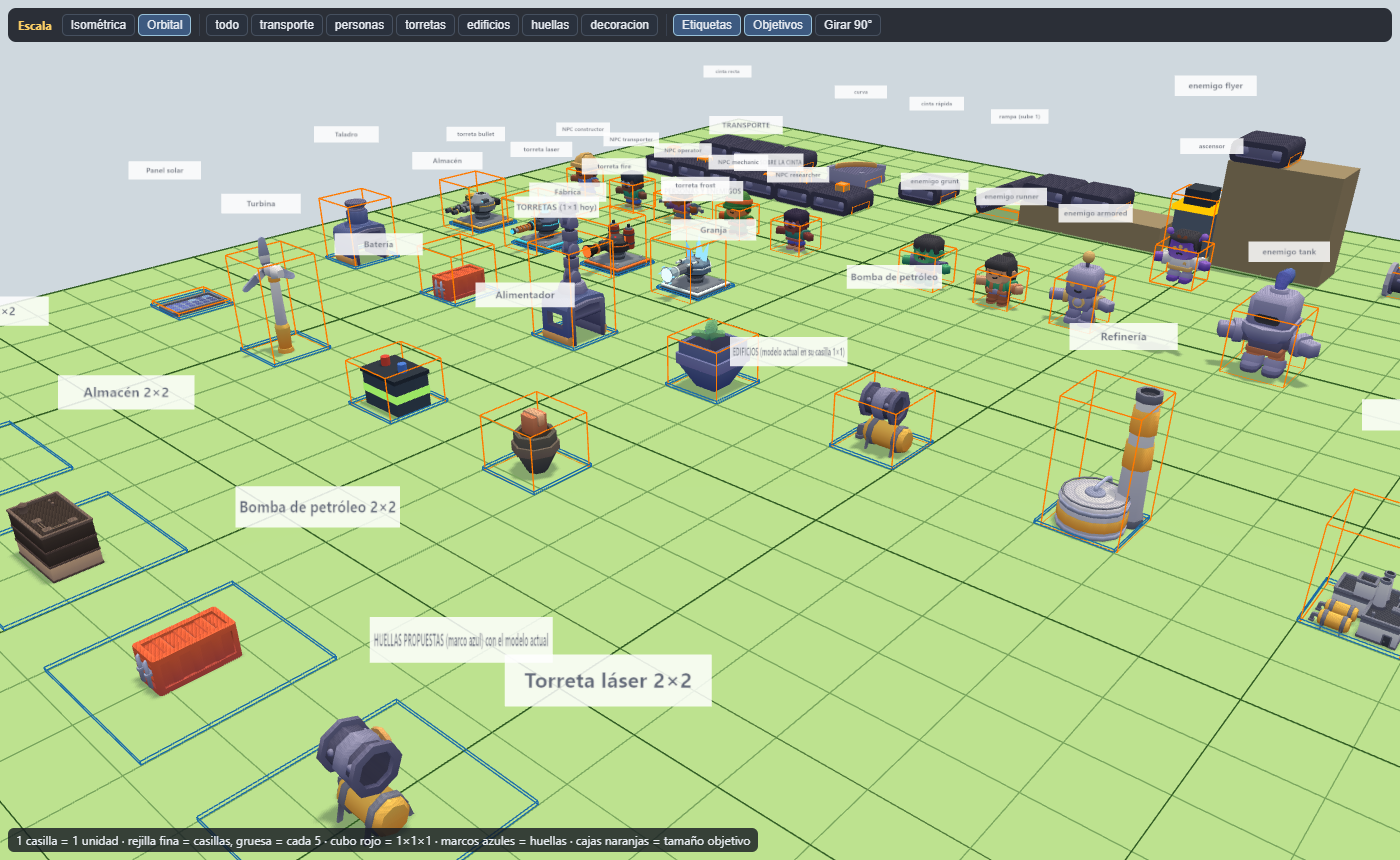
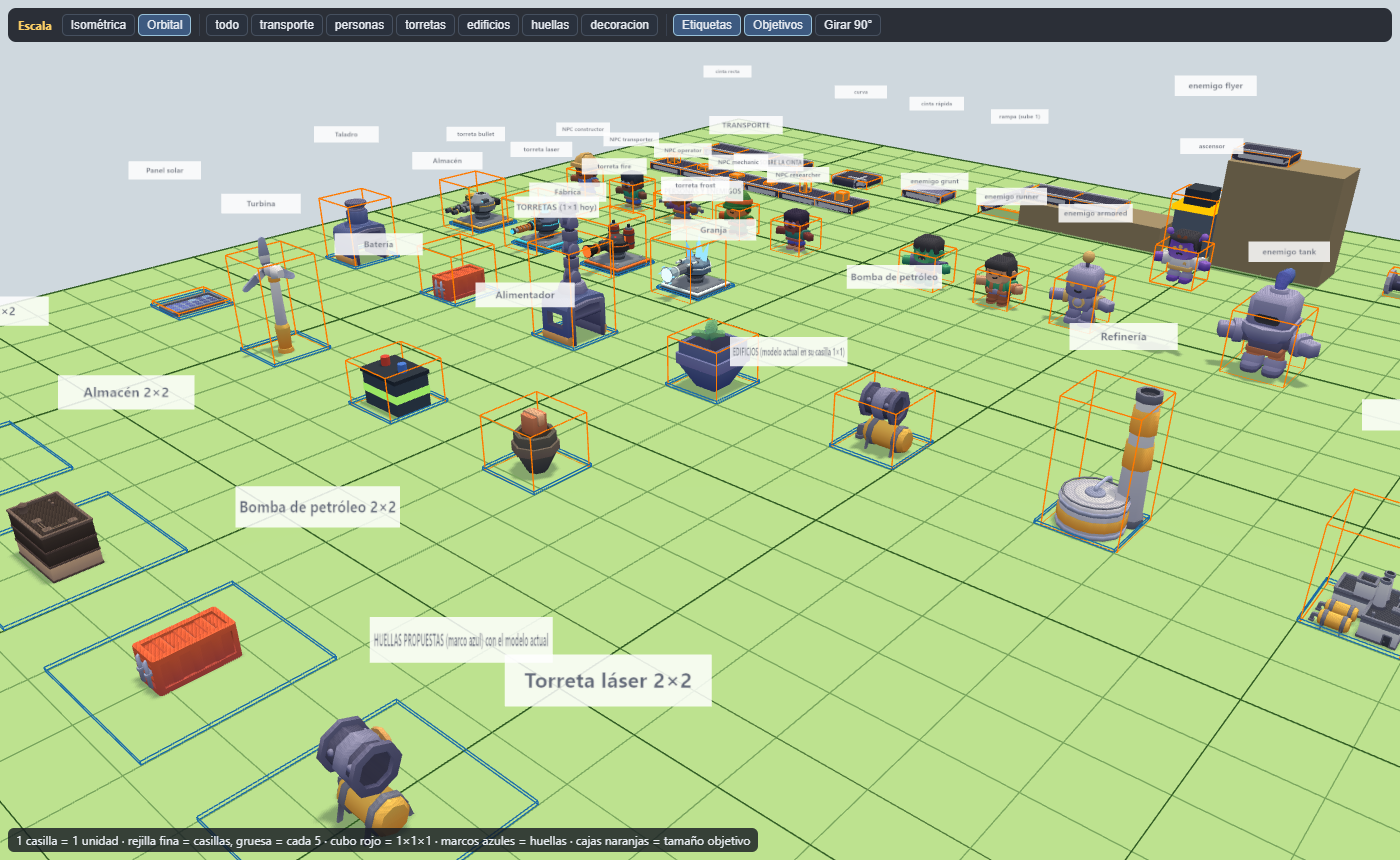
ESC-2: cintas bajas y estrechas con bordes, tuberias finas con bridas apoyadas, objetos sobre la superficie y tests de escala

Changed region(s): [[0.4607, 0.1512, 0.8293, 0.2721], [0.86, 0.1512, 0.9521, 0.2116], [0.9829, 0.3023, 1.0, 0.3628]]

diff --git a/src/view3d/scene3d.ts b/src/view3d/scene3d.ts
@@ -47,25 +47,35 @@ export const OPT_ON: ViewOptions = { batch: true, cull: true, chunk: 32, shadows
 export const OPT_OFF: ViewOptions = { batch: false, cull: false, chunk: 0, shadows: true, outline: false };
 /** Grosor de las tuberías respecto al modelo (1 = ocupa la casilla entera). */
 /** Grosor de la tubería (la cinta ocupa casi toda la casilla; la tubería es más fina y lleva bridas en las juntas). */
-const PIPE_T = 0.5;
+const PIPE_T = CONFIG.scale.pipeDiameter;
+/** Elevación del tubo para que las bridas (más anchas) apoyen en el suelo: radio de la brida menos radio del tubo. */
+const PIPE_LIFT = Math.max(0, (CONFIG.scale.pipeFlange - CONFIG.scale.pipeDiameter) / 2);
 /** Tinte de la tubería según el líquido que lleva (sin líquido: sin tinte). */
 const PIPE_LIQUID_TINT: Record<string, number> = { oil: 0x6b4a2a, gasoline: 0xe3cf3a };
 const FAST_TINT = 0xbfe0ff;
 /** Altura de la cara superior de una cinta sobre su casilla (donde va la textura de dirección). */
-const BELT_TOP = 0.4;
+const BELT_TOP = CONFIG.scale.beltHeight;
 /** Cinta parada por falta de energía: se ve apagada. */
 const BELT_OFF_TINT = 0x6f7480;
 /** Segundos de temblor de cámara cuando golpean el núcleo. */
 const SHAKE_TIME = 0.14;
 /** Geometría de cada forma de objeto sobre las cintas y altura de su centro sobre la cinta. */
+export /** Cada objeto descansa sobre la superficie de la cinta: `y` = alto de la cinta + la mitad de su propia altura (lado máximo 0,15–0,25). */
+const rests = (half: number) => CONFIG.scale.beltHeight + half;
 export const ITEM_GEO: Record<ItemShape, { geo: THREE.BufferGeometry; y: number }> = {
-  lump: { geo: new THREE.DodecahedronGeometry(0.13, 0), y: 0.47 },
-  log: { geo: new THREE.CylinderGeometry(0.065, 0.065, 0.28, 8).rotateZ(Math.PI / 2), y: 0.425 },
-  slab: { geo: new THREE.BoxGeometry(0.28, 0.07, 0.2), y: 0.395 },
-  disc: { geo: new THREE.CylinderGeometry(0.12, 0.12, 0.07, 12), y: 0.395 },
-  shell: { geo: new THREE.CylinderGeometry(0.06, 0.06, 0.2, 8), y: 0.46 },
-  crate: { geo: new THREE.BoxGeometry(0.22, 0.18, 0.22), y: 0.45 },
+  lump: { geo: new THREE.DodecahedronGeometry(0.11, 0), y: rests(0.11) },
+  log: { geo: new THREE.CylinderGeometry(0.055, 0.055, 0.25, 8).rotateZ(Math.PI / 2), y: rests(0.055) },
+  slab: { geo: new THREE.BoxGeometry(0.25, 0.06, 0.18), y: rests(0.03) },
+  disc: { geo: new THREE.CylinderGeometry(0.11, 0.11, 0.06, 12), y: rests(0.03) },
+  shell: { geo: new THREE.CylinderGeometry(0.05, 0.05, 0.18, 8), y: rests(0.09) },
+  crate: { geo: new THREE.BoxGeometry(0.2, 0.16, 0.2), y: rests(0.08) },
 };
+const RAIL_MAT = new THREE.MeshStandardMaterial({ color: 0xc9cdd9, flatShading: true, roughness: 0.9 });
+const RAIL_OFF_MAT = new THREE.MeshStandardMaterial({ color: 0x8a8f9c, flatShading: true, roughness: 1 });
+const BELT_HUB_MAT = new THREE.MeshStandardMaterial({ color: 0x3a3b4d, flatShading: true, roughness: 1 });
+patchMaterial(RAIL_MAT);
+patchMaterial(RAIL_OFF_MAT);
+patchMaterial(BELT_HUB_MAT);
 const HUB_GEO = new THREE.SphereGeometry(0.5, 8, 6);
 const HUB_MAT = new THREE.MeshStandardMaterial({ color: 0x5f5d78, flatShading: true, roughness: 1, metalness: 0 });
 patchMaterial(HUB_MAT);
@@ -563,23 +573,48 @@ export class View3D {
     const flags = sig.slice(-4);
     const on = (c: string) => [0, 1, 2, 3].filter((d) => flags[d] === c);
     if (kind === 'belt' || kind === 'belt_fast') {
-      // Cinta: recta, curva, empalme en T o cruce según por dónde le entran otras cintas.
-      const pc = beltPiece(b.dir, on('i'));
-      const o = instance(pc.piece === 'straight' ? parts[0].model! : pc.model, 1);
-      if (sig.includes('|off')) tint(o, BELT_OFF_TINT);
-      else if (kind === 'belt_fast' && pc.piece !== 'straight') tint(o, FAST_TINT);
-      o.rotation.y = quarterYaw(pc.k);
+      // Cinta baja y estrecha (CONFIG.scale: 0,65 × 0,18, 1 de largo): tramos del modelo recto estirados a la medida, con bordes
+      // laterales más claros. Recta = un tramo entero; curva, T o cruce = medio tramo hacia cada lado abierto y un cubo central.
+      const sc = CONFIG.scale;
+      const model = parts[0].model!;
+      const off = sig.includes('|off');
+      const seg = (len: number, cx: number, rails = true): THREE.Group => {
+        const holder = new THREE.Group();
+        const o = instance(model, undefined, 1);
+        if (off) tint(o, BELT_OFF_TINT);
+        o.scale.set(len, sc.beltHeight / 0.4, sc.beltWidth);
+        o.position.x = cx;
+        holder.add(o);
+        for (const side of rails ? [-1, 1] : []) {
+          const rail = new THREE.Mesh(BOX_GEO, off ? RAIL_OFF_MAT : RAIL_MAT);
+          rail.scale.set(len, sc.beltHeight + 0.03, sc.beltRail);
+          rail.position.set(cx, (sc.beltHeight + 0.03) / 2, side * (sc.beltWidth / 2 - sc.beltRail / 2));
+          holder.add(rail);
+        }
+        return holder;
+      };
+      const incoming = on('i');
+      const only = incoming.every((d) => d === (b.dir + 2) % 4);
       const slope = Number(/\|s(-?\d)/.exec(sig)?.[1] ?? 0);
-      if (slope && pc.piece === 'straight') {
-        // Rampa: la pieza recta se inclina para unir los dos niveles (sube LEVEL_H a lo largo de la casilla).
-        const pivot = new THREE.Group();
-        pivot.rotation.set(0, yawToDir(b.dir), slope * Math.atan(LEVEL_H), 'XYZ');
-        pivot.position.y = (slope * LEVEL_H) / 2;
-        o.rotation.y = quarterYaw(pc.k) - yawToDir(b.dir);
-        pivot.add(o);
-        group.add(pivot);
-      } else group.add(o);
-      top = 0.4;
+      if (only) {
+        const holder = seg(1, 0);
+        holder.rotation.set(0, yawToDir(b.dir), slope * Math.atan(LEVEL_H), 'XYZ');
+        // Rampa: la pieza se inclina para unir los dos niveles (sube LEVEL_H a lo largo de la casilla).
+        holder.position.y = (slope * LEVEL_H) / 2;
+        group.add(holder);
+      } else {
+        const arms = new Set<number>([b.dir, ...incoming]);
+        for (const d of arms) {
+          const holder = seg(0.5, 0.25, false);
+          holder.rotation.y = yawToDir(d);
+          group.add(holder);
+        }
+        const hub = new THREE.Mesh(BOX_GEO, off ? RAIL_OFF_MAT : BELT_HUB_MAT);
+        hub.scale.set(sc.beltWidth, sc.beltHeight, sc.beltWidth);
+        hub.position.y = sc.beltHeight / 2;
+        group.add(hub);
+      }
+      top = sc.beltHeight;
     } else if (kind === 'pipeline') {
       // Tubería: tramo recto, o medios tramos hacia cada vecino con un codo central.
       const a = armsFor(maskOf(on('p')), (b.dir % 2) as 0 | 1);
@@ -596,20 +631,26 @@ export class View3D {
         for (const sx of half ? [0.47] : [0.47, -0.47]) {
           const f = new THREE.Mesh(FLANGE_GEO, FLANGE_BY_LIQUID[liquid] ?? FLANGE_MAT);
           f.position.set(sx, PIPE_T * 0.5, 0);
-          f.scale.set(1, PIPE_T * 1.3, PIPE_T * 1.3);
+          f.scale.set(1, CONFIG.scale.pipeFlange, CONFIG.scale.pipeFlange);
           holder.add(f);
         }
+        holder.position.y = PIPE_LIFT;
         group.add(holder);
       };
       if (a.straightAxis !== null) seg(a.straightAxis, false);
       else {
         a.arms.forEach((d) => seg(d, true));
         const hub = new THREE.Mesh(HUB_GEO, HUB_MAT);
-        hub.position.y = PIPE_T * 0.5;
+        hub.position.y = PIPE_T * 0.5 + PIPE_LIFT;
         hub.scale.setScalar(PIPE_T);
         group.add(hub);
       }
-      top = PIPE_T;
+      // Soporte pequeño: las bridas (más gruesas que el tubo) descansan sobre el suelo sin hundirse.
+      const saddle = new THREE.Mesh(BOX_GEO, FLANGE_MAT);
+      saddle.scale.set(0.2, PIPE_LIFT + 0.01, 0.26);
+      saddle.position.y = (PIPE_LIFT + 0.01) / 2;
+      group.add(saddle);
+      top = PIPE_T + PIPE_LIFT;
     } else if (isWallKind(kind)) {
       // Muro macizo: medios tramos hacia cada vecino y un poste central (esquina, T, cruz, extremo o suelto). El daño lo baja y lo oscurece.
       const st = WALL_STYLE[kind];
@@ -863,7 +904,7 @@ export class View3D {
     for (const b of this.belts) {
       if (beltStopped(b) && lamps < MAX_ITEMS) {
         // El piloto va en el borde derecho de la cinta según su sentido.
-        m.makeTranslation(b.x + 0.5 - DY[b.dir] * 0.4, this.levelTop(b) + 0.42, b.y + 0.5 + DX[b.dir] * 0.4);
+        m.makeTranslation(b.x + 0.5 - DY[b.dir] * 0.36, this.levelTop(b) + BELT_TOP + 0.1, b.y + 0.5 + DX[b.dir] * 0.36);
         this.beltLamps.setMatrixAt(lamps++, m);
       }
       if (!b.item) continue;

diff --git a/src/view3d/galeria-escala.ts b/src/view3d/galeria-escala.ts
@@ -56,6 +56,19 @@ const ZONES: Record<string, { x: number; z: number; zoom: number }> = {
   decoracion: { x: 10, z: 30, zoom: 2.4 },
 };
 
+/** Caja envolvente sólo de las mallas visibles (las cintas llevan una pieza oculta para el modo sin agrupar). */
+function visibleBox(root: THREE.Object3D): THREE.Box3 {
+  const box = new THREE.Box3();
+  root.updateMatrixWorld(true);
+  root.traverse((o) => {
+    const m = o as THREE.Mesh;
+    if (!m.isMesh) return;
+    for (let p: THREE.Object3D | null = m; p; p = p.parent) if (!p.visible) return;
+    box.union(new THREE.Box3().setFromObject(m));
+  });
+  return box;
+}
+
 export async function startScaleGallery(host: HTMLElement): Promise<void> {
   const world = createFlatWorld(48, 40);
   const game = new Game({ world, noWaves: true });
@@ -259,7 +272,7 @@ export async function startScaleGallery(host: HTMLElement): Promise<void> {
     const t = CONFIG.scale.targets[e.key];
     if (!t || e.cat === 'huella') continue;
     e.group.updateMatrixWorld(true);
-    const bb = new THREE.Box3().setFromObject(e.group);
+    const bb = visibleBox(e.group);
     const size = bb.getSize(new THREE.Vector3());
     const c = bb.getCenter(new THREE.Vector3());
     const linear = /^(belt|pipeline)/.test(e.key);
@@ -339,7 +352,7 @@ export async function startScaleGallery(host: HTMLElement): Promise<void> {
   const report = (): ScaleRow[] =>
     entries.map((e) => {
       e.group.updateMatrixWorld(true);
-      const b = new THREE.Box3().setFromObject(e.group);
+      const b = visibleBox(e.group);
       const s = b.getSize(new THREE.Vector3());
       return { cat: e.cat, name: e.name, key: e.key, w: +s.x.toFixed(3), d: +s.z.toFixed(3), h: +s.y.toFixed(3), minY: +(b.min.y - e.baseY).toFixed(3), cell: e.cell };
     });
@@ -364,6 +377,23 @@ export async function startScaleGallery(host: HTMLElement): Promise<void> {
       render();
     },
     report,
+    dump: (key: string) => {
+      const e = entries.find((x) => x.key === key)!;
+      const out: unknown[] = [];
+      e.group.updateMatrixWorld(true);
+      e.group.traverse((o) => {
+        const m = o as THREE.Mesh;
+        if (!m.isMesh) return;
+        const b = new THREE.Box3().setFromObject(m);
+        out.push([m.name || m.type, +b.min.y.toFixed(3), +b.max.y.toFixed(3), +(b.max.x - b.min.x).toFixed(2), +(b.max.z - b.min.z).toFixed(2)]);
+      });
+      return out;
+    },
+    native: (id: string) => {
+      const b = new THREE.Box3().setFromObject(instance(id, undefined, 1));
+      const v = b.getSize(new THREE.Vector3());
+      return [+v.x.toFixed(3), +v.y.toFixed(3), +v.z.toFixed(3)];
+    },
     render,
     pitch: PITCH,
   };

diff --git a/src/view3d/escala.test.ts b/src/view3d/escala.test.ts
@@ -1,0 +1,50 @@
+import { describe, expect, it } from 'vitest';
+import * as THREE from 'three';
+import { CONFIG } from '../game/config';
+import { ITEM_GEO } from './scene3d';
+import { ITEM_SHAPES } from './pieces';
+
+const S = CONFIG.scale;
+
+describe('Escala · cintas, tuberías y objetos transportados', () => {
+  it('una casilla es una unidad y la cinta es más baja y estrecha que la casilla', () => {
+    expect(S.unit).toBe(1);
+    expect(S.beltWidth).toBeLessThan(0.7);
+    expect(S.beltWidth).toBeGreaterThanOrEqual(0.55);
+    expect(S.beltHeight).toBeGreaterThanOrEqual(0.12);
+    expect(S.beltHeight).toBeLessThanOrEqual(0.2);
+    expect(S.beltRail * 2).toBeLessThan(S.beltWidth / 2);
+    expect(S.beltLane).toBeLessThanOrEqual(S.beltWidth - 2 * S.beltRail);
+  });
+
+  it('la tubería es más fina que la cinta y las bridas no pasan de 0,45', () => {
+    expect(S.pipeDiameter).toBeGreaterThanOrEqual(0.3);
+    expect(S.pipeDiameter).toBeLessThanOrEqual(0.4);
+    expect(S.pipeFlange).toBeGreaterThanOrEqual(S.pipeDiameter);
+    expect(S.pipeFlange).toBeLessThanOrEqual(0.45);
+    expect(S.pipeDiameter).toBeLessThan(S.beltWidth);
+  });
+
+  it('cada forma de objeto mide entre 0,15 y 0,25 de lado máximo y cabe en el carril', () => {
+    for (const shape of ITEM_SHAPES) {
+      const g = ITEM_GEO[shape].geo;
+      g.computeBoundingBox();
+      const size = g.boundingBox!.getSize(new THREE.Vector3());
+      const max = Math.max(size.x, size.y, size.z);
+      expect(max, shape).toBeGreaterThanOrEqual(S.itemSize[0] - 0.005);
+      expect(max, shape).toBeLessThanOrEqual(S.itemSize[1] + 0.005);
+      // Cabe en el carril: su ancho (perpendicular al avance) no supera el carril útil.
+      expect(Math.min(size.x, size.z), shape).toBeLessThanOrEqual(S.beltLane);
+    }
+  });
+
+  it('los objetos descansan sobre la superficie de la cinta: su base coincide con la altura de la cinta', () => {
+    for (const shape of ITEM_SHAPES) {
+      const g = ITEM_GEO[shape].geo;
+      g.computeBoundingBox();
+      const base = ITEM_GEO[shape].y + g.boundingBox!.min.y;
+      expect(base, shape).toBeGreaterThanOrEqual(S.beltHeight - 1e-6);
+      expect(base, shape).toBeLessThanOrEqual(S.beltHeight + 0.01);
+    }
+  });
+});

diff --git a/src/game/config.ts b/src/game/config.ts
@@ -243,7 +243,14 @@ export const CONFIG = {
     tree: { minHeight: 1.0, maxHeight: 1.3, maxCanopy: 0.8 },
     maxBuildingHeight: 1.8,
     maxWidth: 1,
+    /** Cinta: ancho y alto del cuerpo (1 casilla de largo), borde lateral y carril útil para los objetos. */
+    beltWidth: 0.65,
+    beltHeight: 0.18,
+    beltRail: 0.04,
     beltLane: 0.5,
+    /** Tubería: diámetro del tubo y de las bridas de las juntas. */
+    pipeDiameter: 0.35,
+    pipeFlange: 0.45,
     /** Objetos transportados: lado máximo entre estos valores, apoyados sobre la cinta. */
     itemSize: [0.15, 0.25] as [number, number],
   },

diff --git a/src/view3d/beltflow.ts b/src/view3d/beltflow.ts
@@ -20,7 +20,7 @@ const RAMP_ANGLE = Math.atan(LEVEL_H);
  * chevrones `>` por tira en u (apuntan a +u) y dos en v: se enseña un chevrón a lo ancho de la cinta (v de 0 a 0,5).
  */
 export const FLOW_TILE = 1.2;
-const WIDTH = 0.44;
+const WIDTH = CONFIG.scale.beltLane;
 const MAX = 8192;
 export const FLOW_COLOR = { normal: 0xbfeaff, fast: 0xffe9a0, stopped: 0x2f3540 };
 
